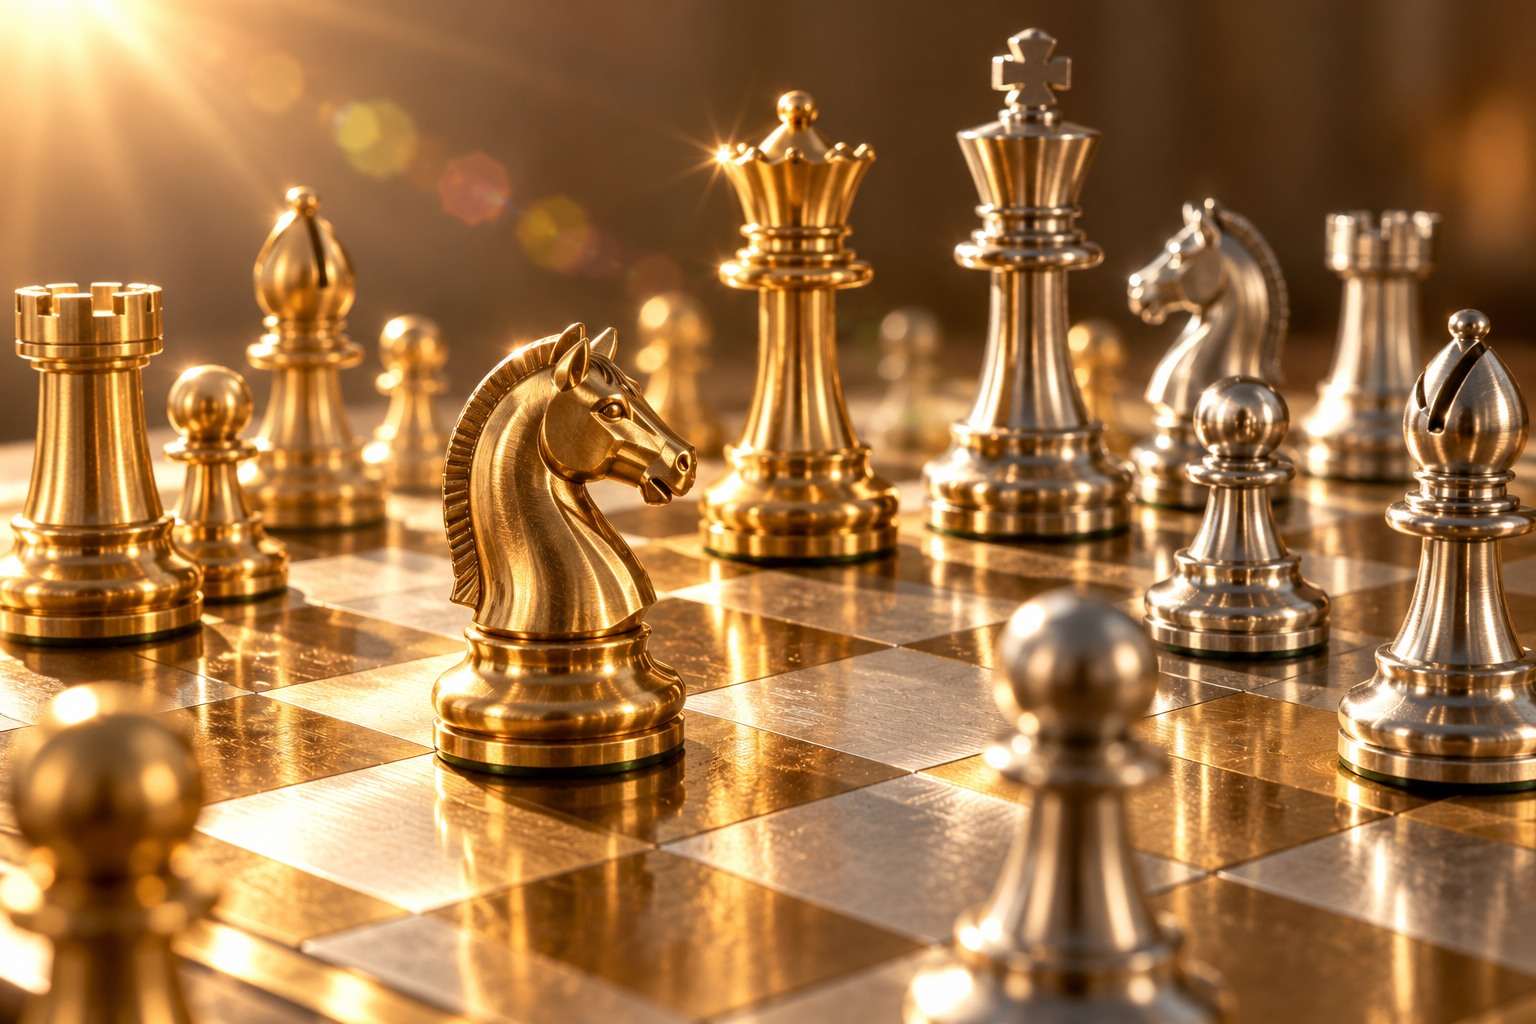
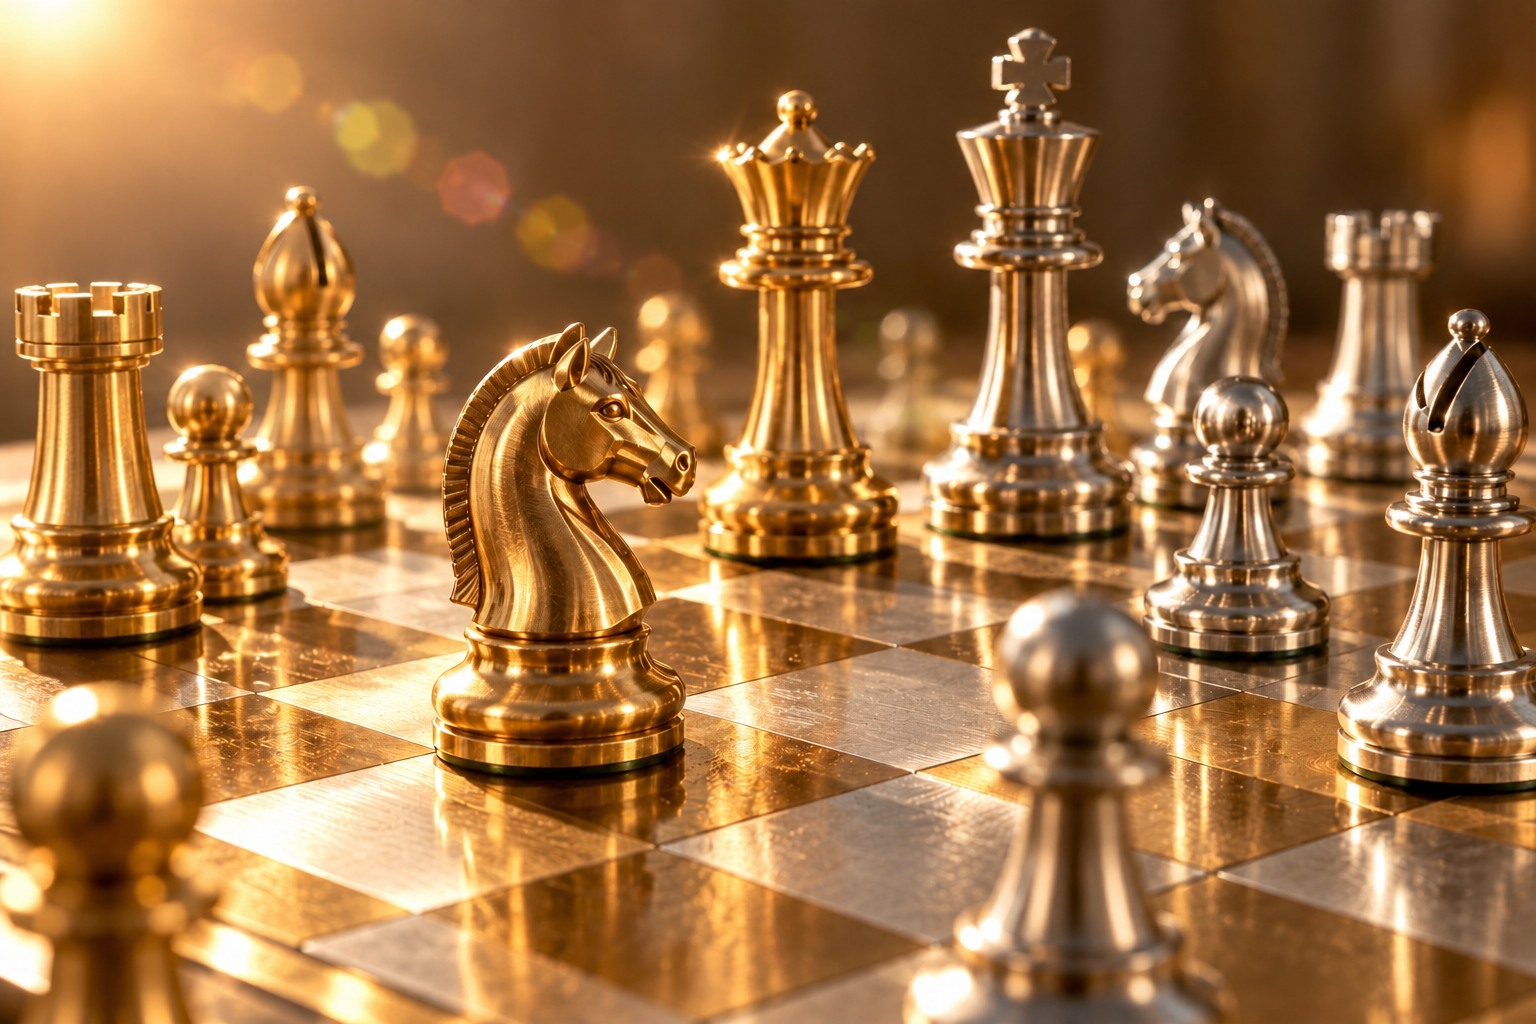
Add files via upload

diff --git a/photo-scroll-light-v211.js b/photo-scroll-light-v211.js
@@ -1,0 +1,111 @@
+(() => {
+  'use strict';
+  const engine = window.EightEightEffects;
+  if (!engine) return;
+  const reduced = matchMedia('(prefers-reduced-motion: reduce)');
+  const header = document.querySelector('.topbar');
+  const clamp = value => Math.max(0, Math.min(1, value));
+  const smooth = value => value * value * (3 - 2 * value);
+  // Over an opaque left-lit base, center first reaches opacity 1, then right
+  // fades over center. This avoids dark seams and doubled/transparent exposure.
+  function lightWeights(progress) {
+    const t = clamp(progress) * 2;
+    return {center: t < 1 ? smooth(t) : 1, right: t > 1 ? smooth(t - 1) : 0};
+  }
+  let headerHeight = 0;
+  let lastState = {scroll: window.scrollY, height: innerHeight};
+  const items = [...document.querySelectorAll('figure[data-light-center][data-light-right]')].map(figure => {
+    const base = figure.querySelector('img');
+    if (!base) return null;
+    const frame = document.createElement('div');
+    frame.className = 'photo-scroll-light';
+    frame.style.aspectRatio = `${base.getAttribute('width') || 1536} / ${base.getAttribute('height') || 1024}`;
+    base.replaceWith(frame);
+    base.classList.add('photo-light-base');
+    frame.append(base);
+    const makeLayer = side => {
+      const image = document.createElement('img');
+      image.className = `photo-light-frame photo-light-${side}`;
+      image.alt = '';
+      image.setAttribute('aria-hidden', 'true');
+      image.decoding = 'async';
+      image.draggable = false;
+      frame.append(image);
+      return image;
+    };
+    return {figure, frame, base, center: makeLayer('center'), right: makeLayer('right'),
+      top: Infinity, height: 0, started: false, ready: false, live: false, progress: NaN};
+  }).filter(Boolean);
+
+  const decoded = image => {
+    if (typeof image.decode === 'function') return image.decode();
+    if (image.complete && image.naturalWidth) return Promise.resolve();
+    return new Promise((resolve, reject) => {
+      image.addEventListener('load', resolve, {once: true});
+      image.addEventListener('error', reject, {once: true});
+    });
+  };
+  async function start(item) {
+    if (item.started || reduced.matches) return;
+    item.started = true;
+    item.center.src = item.figure.dataset.lightCenter;
+    item.right.src = item.figure.dataset.lightRight;
+    try {
+      await Promise.all([decoded(item.base), decoded(item.center), decoded(item.right)]);
+      item.ready = true;
+      item.progress = NaN;
+      paint(lastState);
+      engine.invalidate();
+    } catch {
+      // Keep the original photograph if a lighting asset cannot be loaded.
+      item.center.style.opacity = item.right.style.opacity = '0';
+    }
+  }
+  function measure() {
+    headerHeight = header?.getBoundingClientRect().height || 0;
+    const scroll = window.scrollY;
+    for (const item of items) {
+      const box = item.frame.getBoundingClientRect();
+      item.top = box.top + scroll;
+      item.height = box.height;
+    }
+    paint({scroll, height: innerHeight});
+  }
+  function paint(state) {
+    lastState = state;
+    for (const item of items) {
+      if (!(item.height > 0)) continue;
+      const top = item.top - state.scroll;
+      const visible = top < state.height && top + item.height > headerHeight;
+      if (visible && !item.started) start(item);
+      const live = visible && item.ready && !reduced.matches;
+      if (live !== item.live) {
+        item.frame.toggleAttribute('data-live', live);
+        item.live = live;
+      }
+      if (!item.ready) continue;
+      const span = Math.max(1, state.height - headerHeight + item.height);
+      const progress = reduced.matches ? 0 : clamp((state.scroll + state.height - item.top) / span);
+      if (progress === item.progress) continue;
+      const weights = lightWeights(progress);
+      item.center.style.opacity = weights.center.toFixed(5);
+      item.right.style.opacity = weights.right.toFixed(5);
+      item.progress = progress;
+    }
+  }
+  if ('IntersectionObserver' in window) {
+    const observer = new IntersectionObserver(entries => {
+      for (const entry of entries) {
+        if (!entry.isIntersecting) continue;
+        const item = items.find(item => item.figure === entry.target);
+        if (item) {
+          start(item);
+          if (item.started) observer.unobserve(item.figure);
+        }
+      }
+    }, {rootMargin: '900px 0px'});
+    for (const item of items) observer.observe(item.figure);
+  }
+  engine.subscribe({measure, paint});
+  reduced.addEventListener('change', () => { paint(lastState); engine.invalidate(); });
+})();

diff --git a/index.html b/index.html
@@ -10,10 +10,10 @@
   <meta name="viewport" content="width=device-width, initial-scale=1.0, viewport-fit=cover">
   <meta name="description" content="Eight&Eight. Strategy, concept development and structural thinking for brands, platforms, products and ideas">
   <title>Eight&Eight</title>
-  <meta name="eight-and-eight-version" content="v206-text-exterior-halo">
+  <meta name="eight-and-eight-version" content="v211-scroll-photo-reflections">
   <link rel="stylesheet" href="styles.css?v=20261017-cream-fan-0008s">
   <link rel="stylesheet" href="design-logo-v6.css?v=20261012-187">
-  <link rel="stylesheet" href="gold-light-v72.css?v=20261023-exterior-text-halo">
+  <link rel="stylesheet" href="gold-light-v72.css?v=20261023-photo-reflections">
 </head>
 <body>
   <div class="page-cream-ground" aria-hidden="true"></div>
@@ -794,7 +794,7 @@
         <div class="section-content">
           <h2>From premise to implementation.</h2>
           <p class="lead">We develop concepts from their first strategic premise through to a structure capable of implementation.</p>
-          <figure class="concept-photo">
+          <figure class="concept-photo" data-light-center="photo-light-clockwork-center-v211.jpg" data-light-right="photo-light-clockwork-right-v211.jpg">
             <img src="concept-development-clockwork-v200.jpg" alt="Photorealistic AI-generated close-up of a mechanical watch movement, with warm sunlight reflected across brass gears and polished bridges." width="1536" height="1024" loading="lazy" decoding="async">
           </figure>
           <p>We define the logic behind products, platforms and communication systems before translating that logic into execution.</p>
@@ -815,8 +815,8 @@
             <article><h3>Partnership Strategy</h3><p>Identifying and structuring relevant collaborations and ecosystems.</p></article>
           </div>
 
-          <figure class="concept-photo strategy-chess-photo">
-            <img src="partnership-strategy-chess-v205.jpg" alt="Photorealistic AI-generated brass and polished-steel chess pieces on a metal chessboard, illuminated by warm sunlight with lens reflections and a starburst highlight." width="1536" height="1024" loading="lazy" decoding="async">
+          <figure class="concept-photo strategy-chess-photo" data-light-center="photo-light-chess-center-v211.jpg" data-light-right="photo-light-chess-right-v211.jpg">
+            <img src="partnership-strategy-chess-v205.jpg?v=20261023-soft-sun" alt="Photorealistic AI-generated brass and polished-steel chess pieces on a metal chessboard, illuminated by warm sunlight with lens reflections and a starburst highlight." width="1536" height="1024" loading="lazy" decoding="async">
           </figure>
 
           <h2 class="subheading">Concept Architecture</h2>
@@ -846,6 +846,9 @@
         <div class="section-label">05 / CONTACT</div>
         <div class="section-content">
           <h2>Different strategic approach?</h2>
+          <figure class="concept-photo contact-gold-photo" data-light-center="photo-light-gold-logo-center-v211.jpg" data-light-right="photo-light-gold-logo-right-v211.jpg">
+            <img src="contact-gold-logo-sand-v207.jpg" alt="The Eight and Eight emblem formed from solid gold bars with polished bevels, resting in fine sand in warm sunlight." width="1536" height="1024" loading="lazy" decoding="async">
+          </figure>
           <p class="lead">Are you building a brand, platform, product or system that requires a different strategic approach?</p>
           <p>We would like to hear about it.</p>
           <p class="contact-tags">Projects · Partnerships · Strategy · Concept Development</p>
@@ -899,5 +902,7 @@
   <script src="gold-light-v72.js?v=20261017-cream-fan-0008s" defer></script>
   <script src="hero-wallpaper-v96.js?v=20261017-uniform-wallpaper" defer></script>
   <script src="logo-home-v167.js?v=20261012-187" defer></script>
+  <script src="text-backdrop-v210.js?v=20261023-live-backdrop-outline" defer></script>
+  <script src="photo-scroll-light-v211.js?v=20261023-reflections" defer></script>
 </body>
 </html>

diff --git a/gold-light-v72.css b/gold-light-v72.css
@@ -507,18 +507,59 @@ html.ios-document-animation .ios-animation-document-layer > canvas {
   z-index: 1;
 }
 
-/* A 0.8px cream halo dims the background outside the glyphs only.
-   Text shadows paint behind the unchanged opaque fill, with no letter blur,
-   stroke, opacity change or alteration to line spacing and text wrapping. */
-body .gold-text-light,
-body .gold-text-coverage {
-  text-shadow:
-    -.8px 0 0 var(--page-cream, #fdfcfa),
-     .8px 0 0 var(--page-cream, #fdfcfa),
-     0 -.8px 0 var(--page-cream, #fdfcfa),
-     0  .8px 0 var(--page-cream, #fdfcfa),
-    -.566px -.566px 0 var(--page-cream, #fdfcfa),
-     .566px -.566px 0 var(--page-cream, #fdfcfa),
-    -.566px  .566px 0 var(--page-cream, #fdfcfa),
-     .566px  .566px 0 var(--page-cream, #fdfcfa);
+/* Text stays opaque and sharp; only the background outside its glyphs blurs. */
+body .gold-text-light {
+  background-image: none !important;
+  color: var(--banner-logo-metal, #4b3a1f) !important;
+  -webkit-text-fill-color: var(--banner-logo-metal, #4b3a1f) !important;
+  text-shadow: none !important;
+}
+.text-backdrop-outline {
+  display: block;
+  position: absolute;
+  top: -3px;
+  left: -3px;
+  z-index: -1;
+  pointer-events: none;
+  background: transparent !important;
+  -webkit-backdrop-filter: blur(.8px);
+  backdrop-filter: blur(.8px);
+  -webkit-mask-repeat: no-repeat;
+  mask-repeat: no-repeat;
+  -webkit-mask-size: 100% 100%;
+  mask-size: 100% 100%;
+}
+
+/* Directional photo lighting stays below the existing banner content mask. */
+.content-scroll .photo-scroll-light {
+  position: relative;
+  z-index: 1;
+  display: block;
+  overflow: hidden;
+  border-radius: clamp(12px, 2vw, 20px);
+}
+.content-scroll .photo-scroll-light > .photo-light-base {
+  position: relative;
+  display: block;
+  z-index: 0;
+  width: 100%;
+  height: auto;
+  border-radius: 0;
+}
+.content-scroll .photo-scroll-light > .photo-light-frame {
+  display: block;
+  position: absolute;
+  inset: 0;
+  z-index: 1;
+  width: 100%;
+  height: 100%;
+  border-radius: 0;
+  object-fit: cover;
+  opacity: 0;
+  pointer-events: none;
+}
+.content-scroll .photo-scroll-light > .photo-light-right { z-index: 2; }
+.photo-scroll-light[data-live] > .photo-light-frame { will-change: opacity; }
+@media (prefers-reduced-motion: reduce) {
+  .content-scroll .photo-scroll-light > .photo-light-frame { display: none; }
 }
